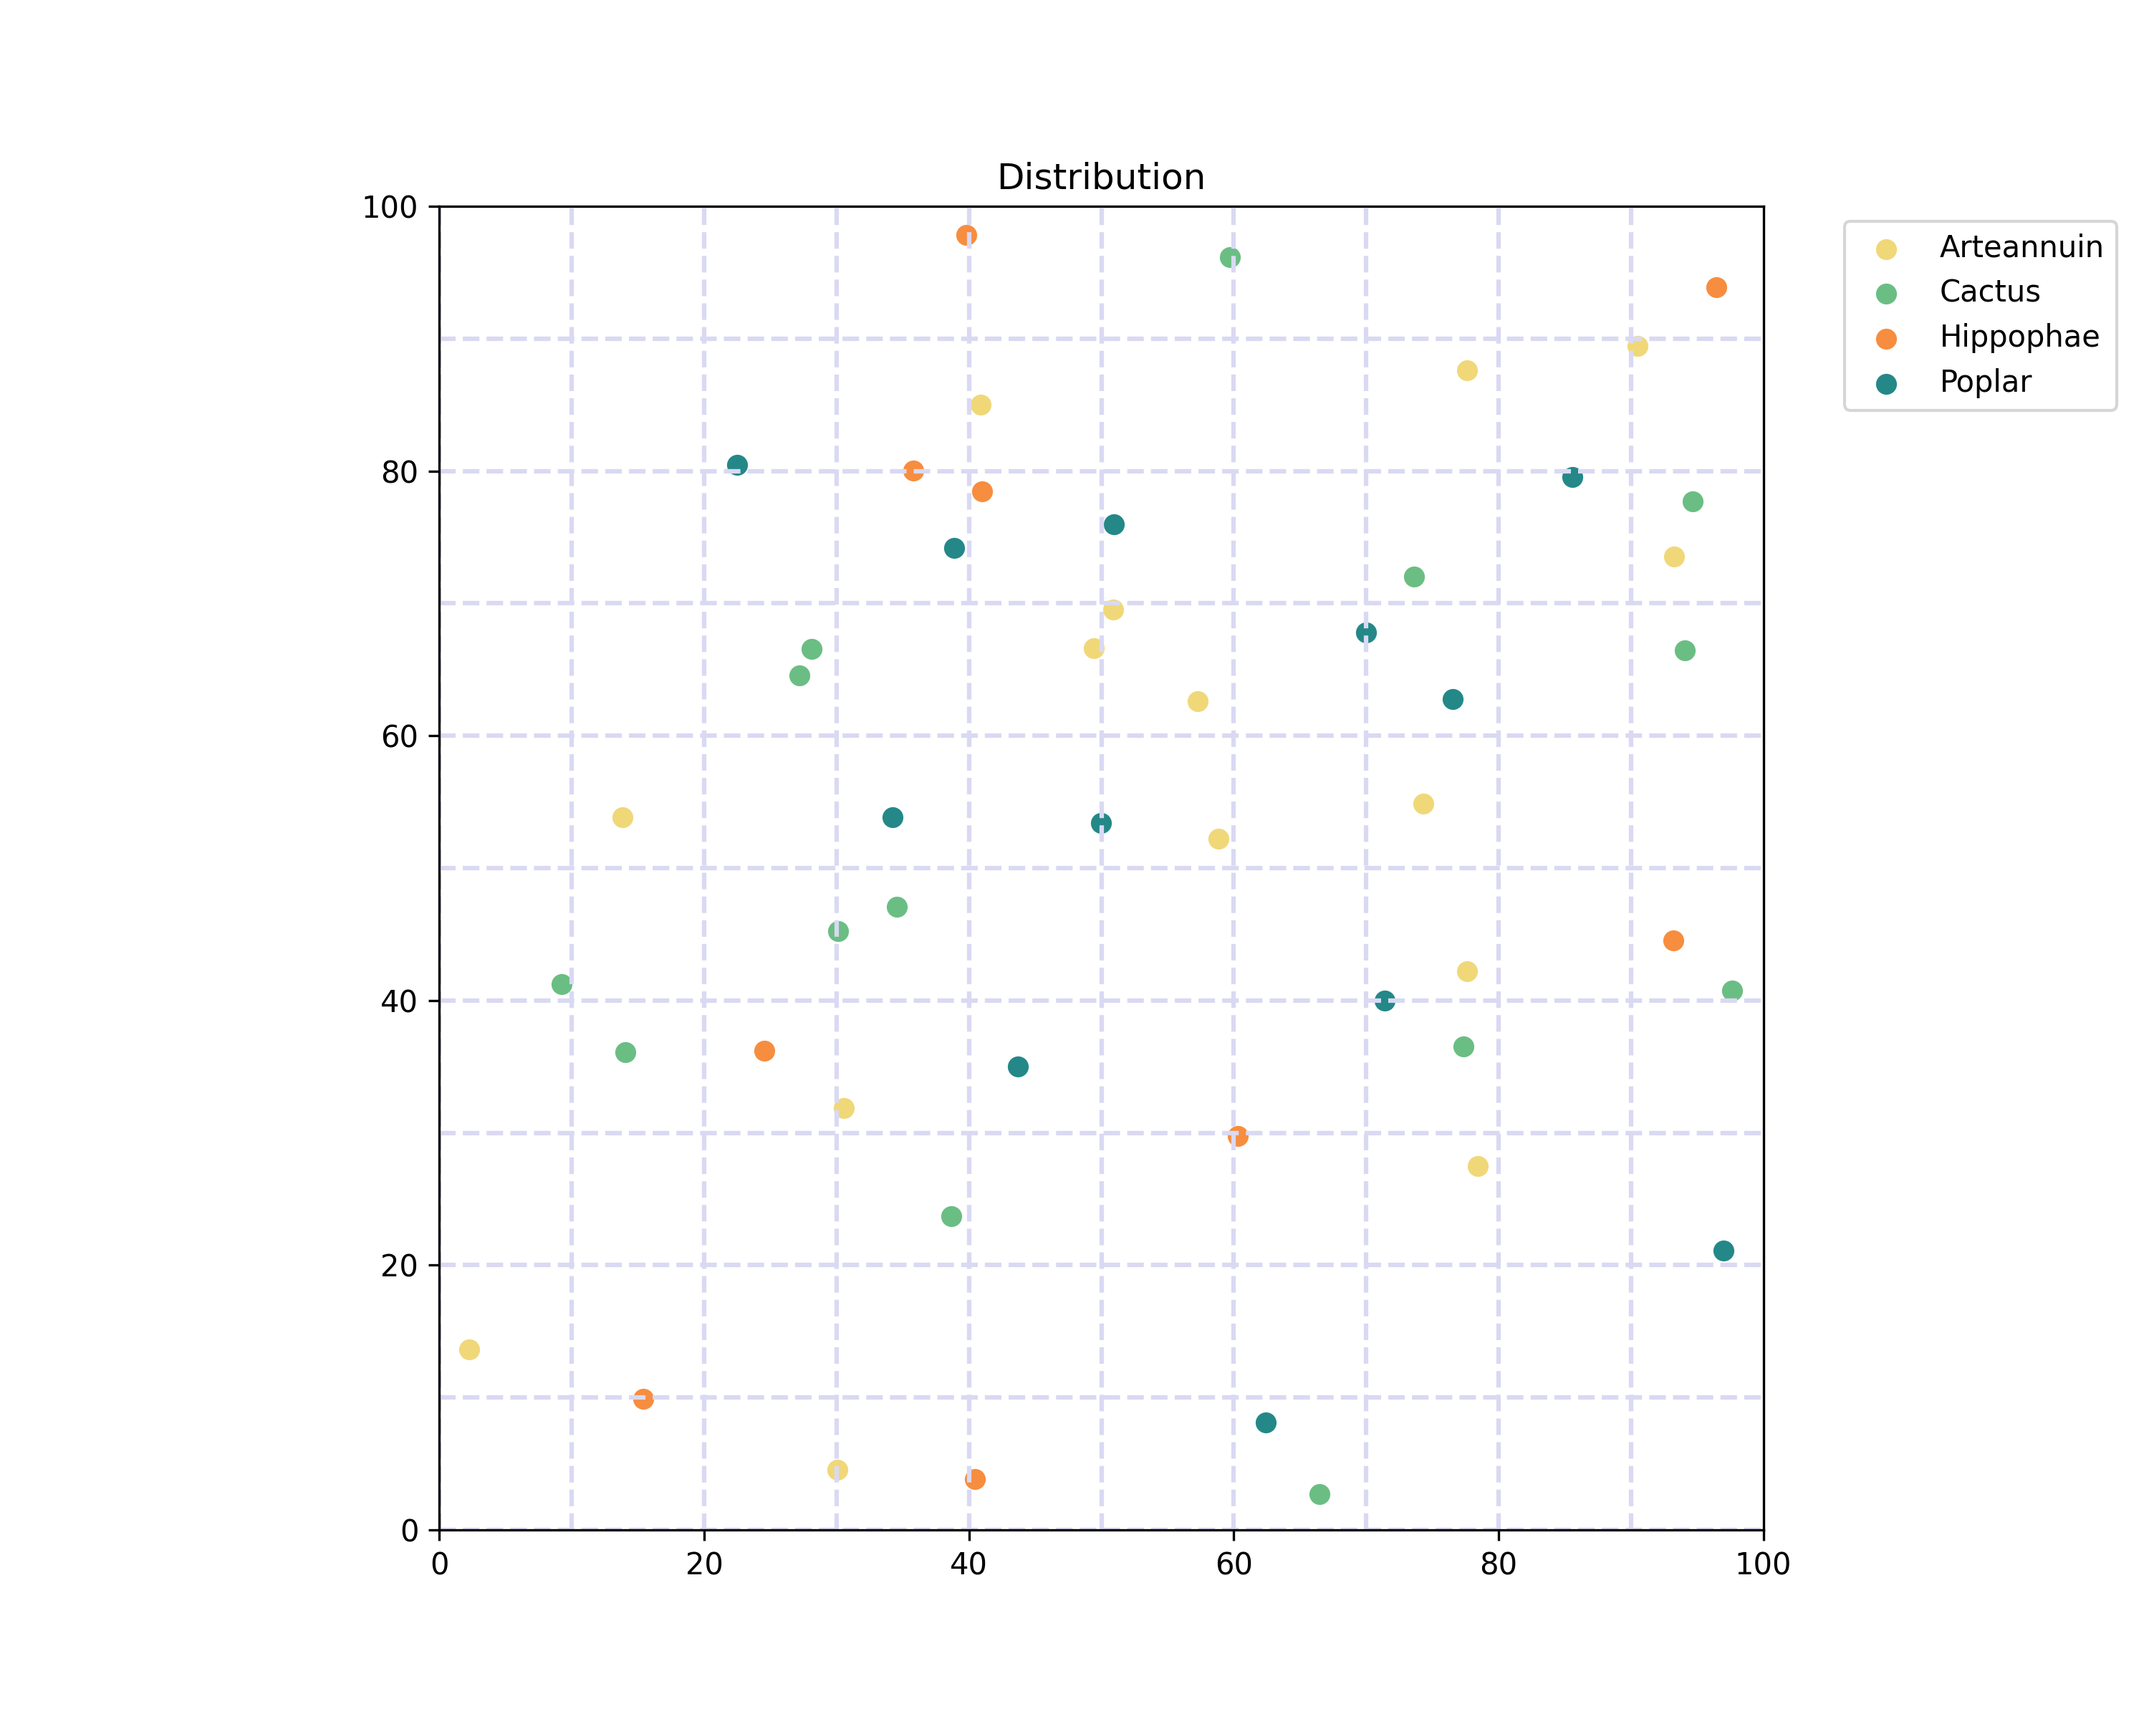
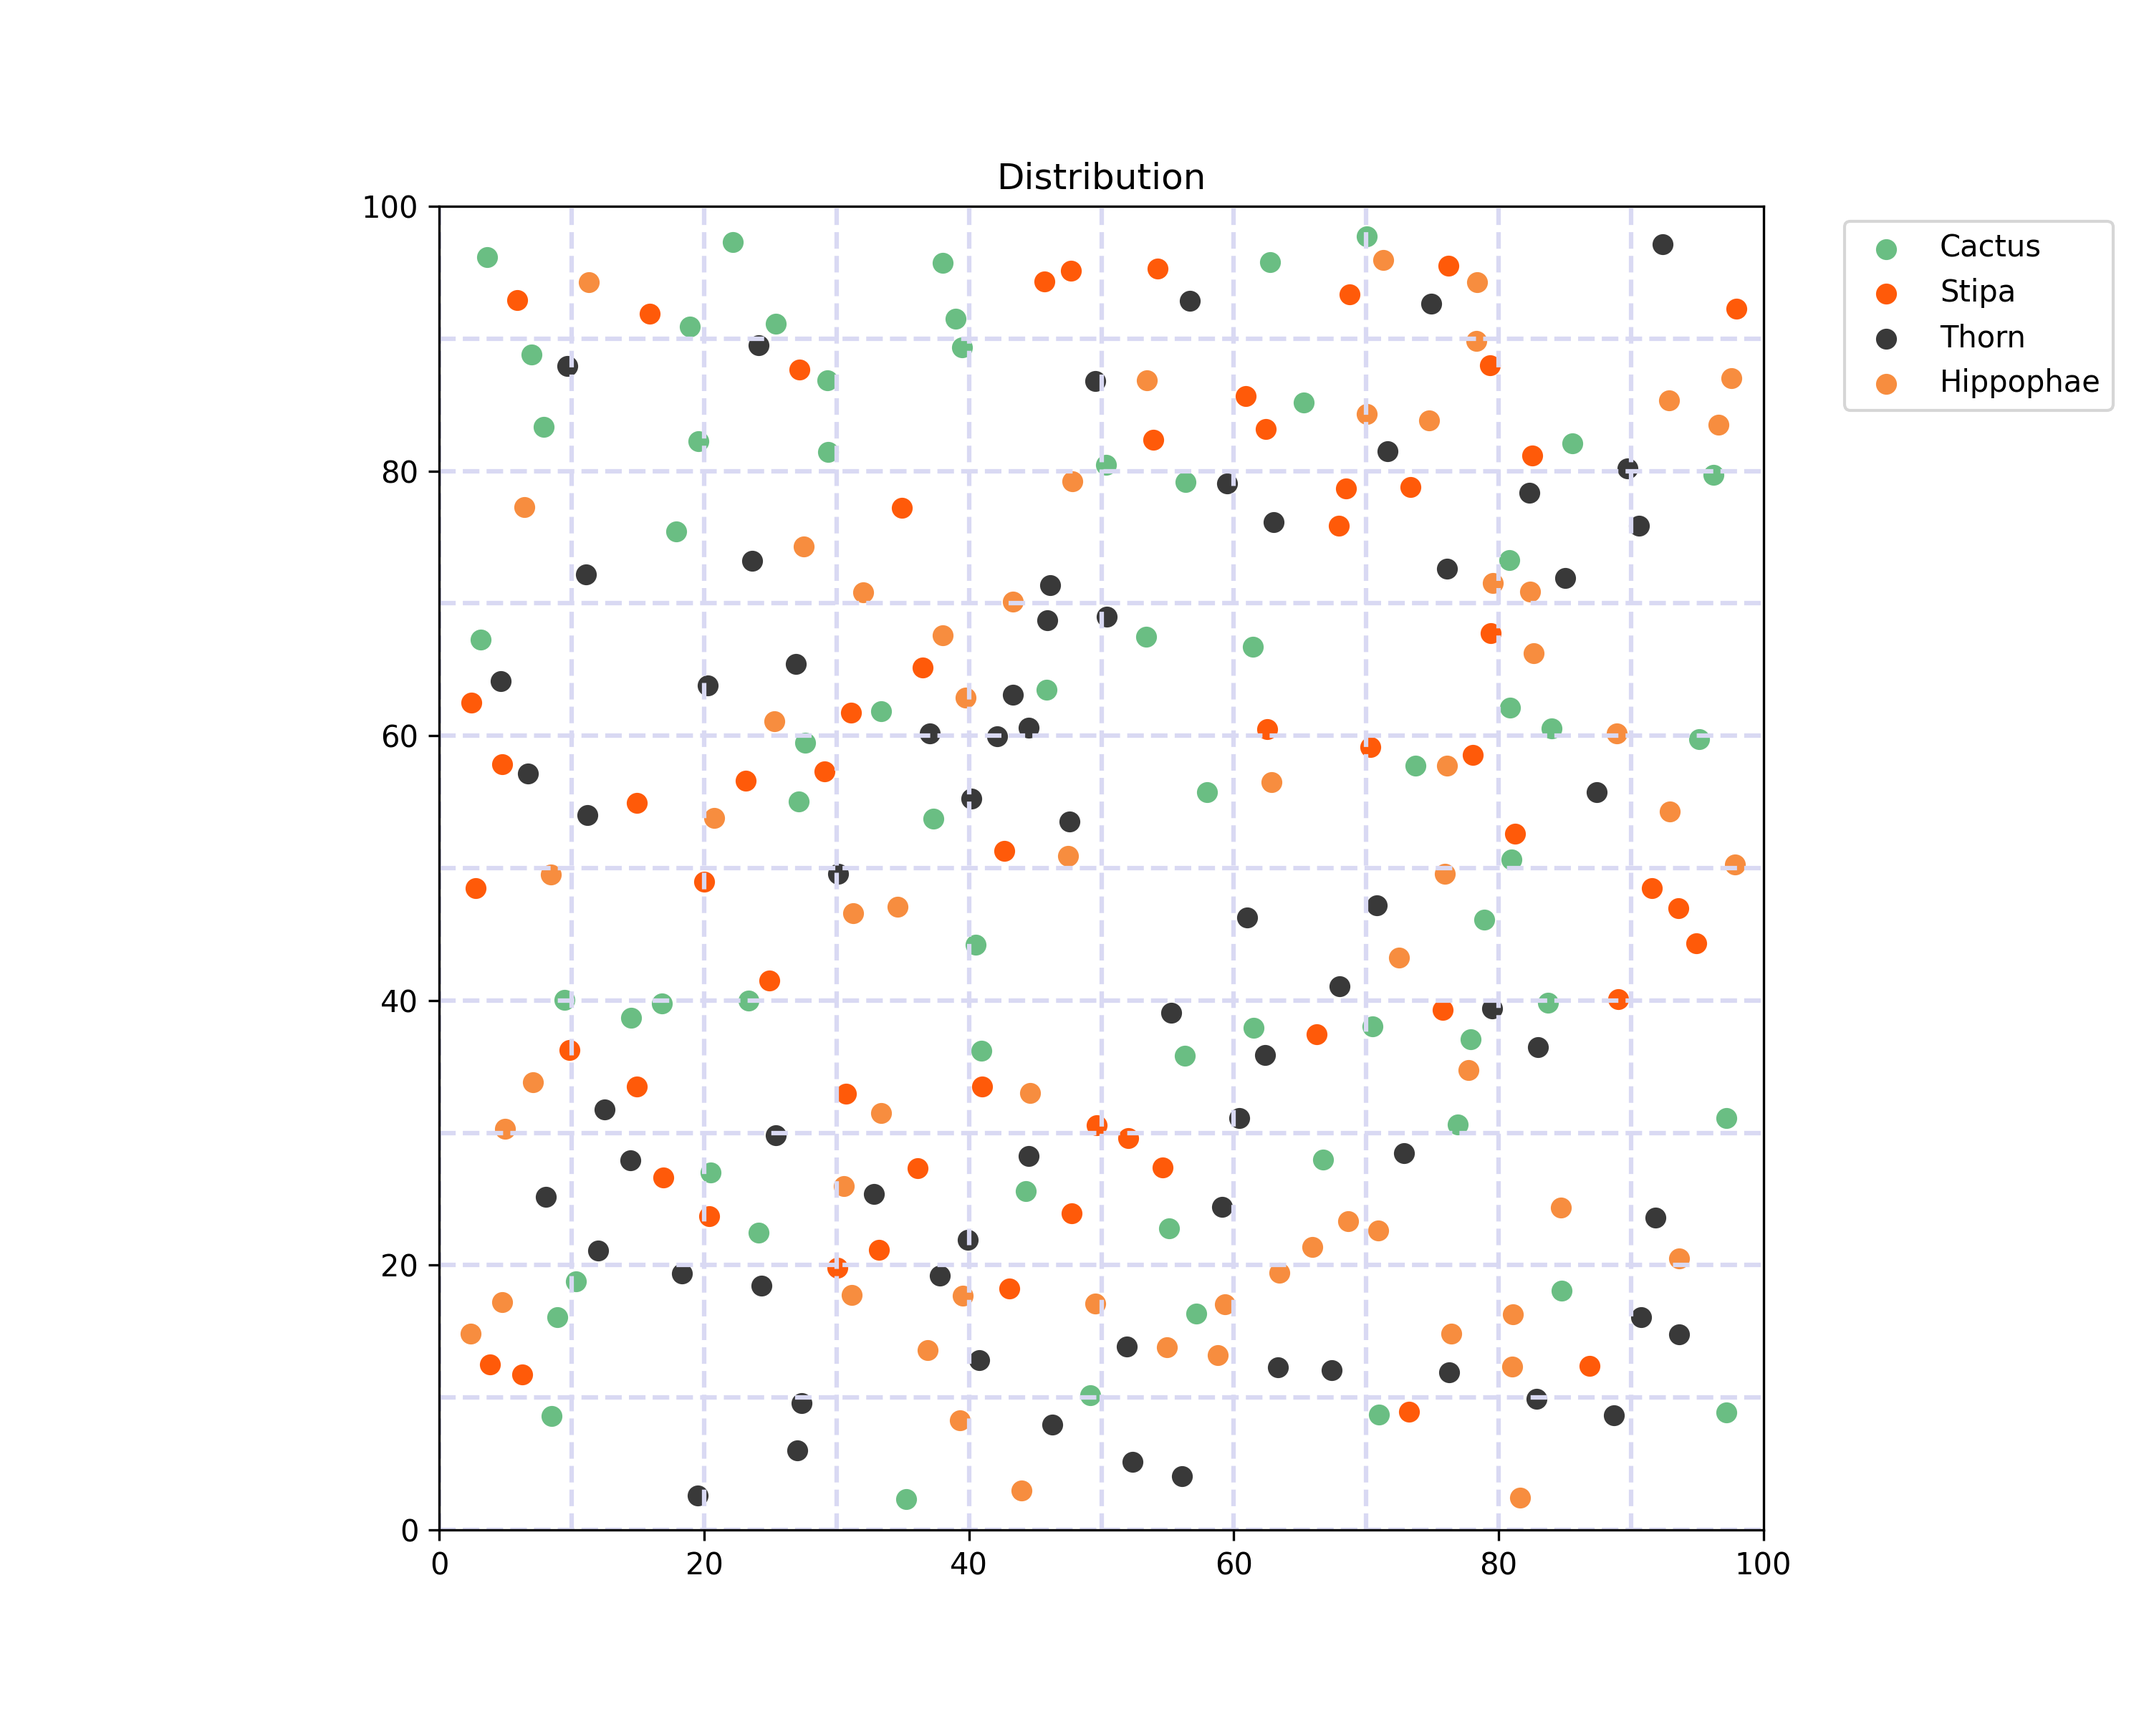
small fix

diff --git a/init.py b/init.py
@@ -37,17 +37,17 @@ def gen_plant(n,point,r=3):
     if n==1:
         plant=Cactus(x,y)
     elif n==2:
-        plant=Arteannuin(x,y)
-    elif n==3:
         plant=Hippophae(x,y)
+    elif n==3:
+        plant=Thorn(x,y)
     elif n==4:
-        plant=Poplar(x,y)
+        plant=Stipa(x,y)
     else:
         plant=Cactus(x,y)
     
     return plant
 
-def vis(plants,line=False,collection=["Cactus","Arteannuin","Hippophae","Poplar"]):
+def vis(plants,line=False,collection=["Cactus","Hippophae","Thorn","Stipa"]):
     plt.figure(dpi=300).set_size_inches(10,8)
     for plant in plants:
         if plant.name in collection:
